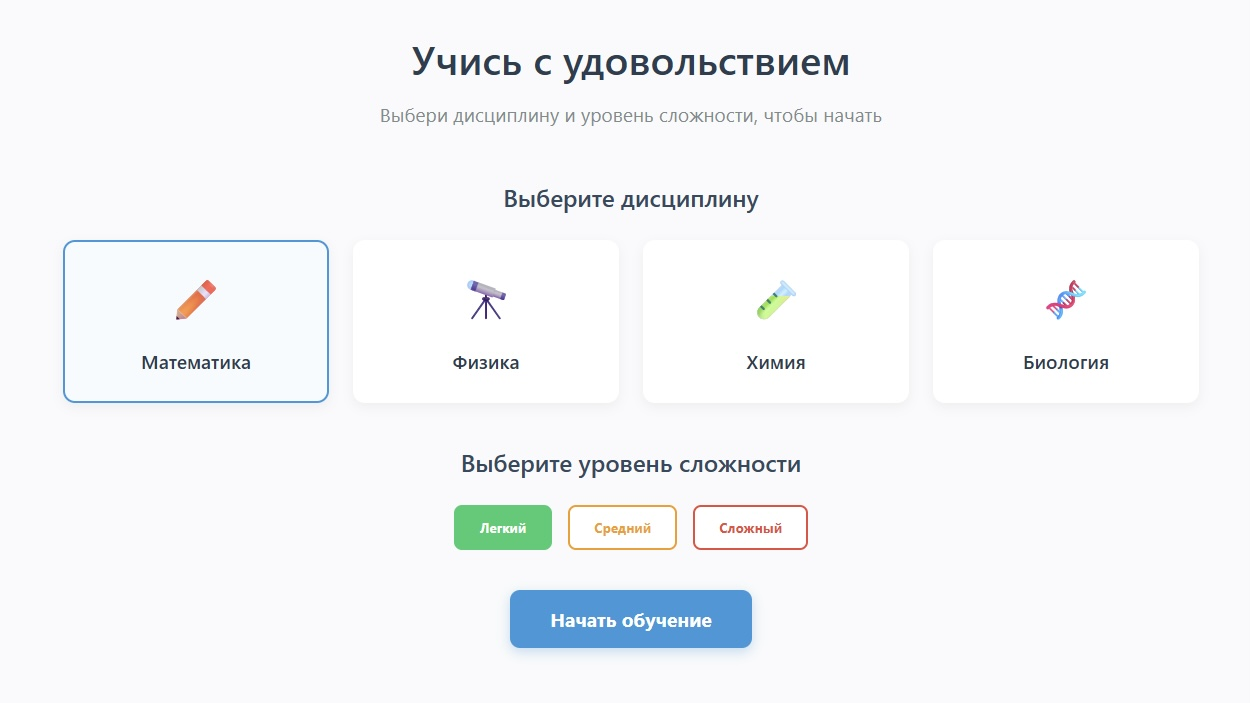
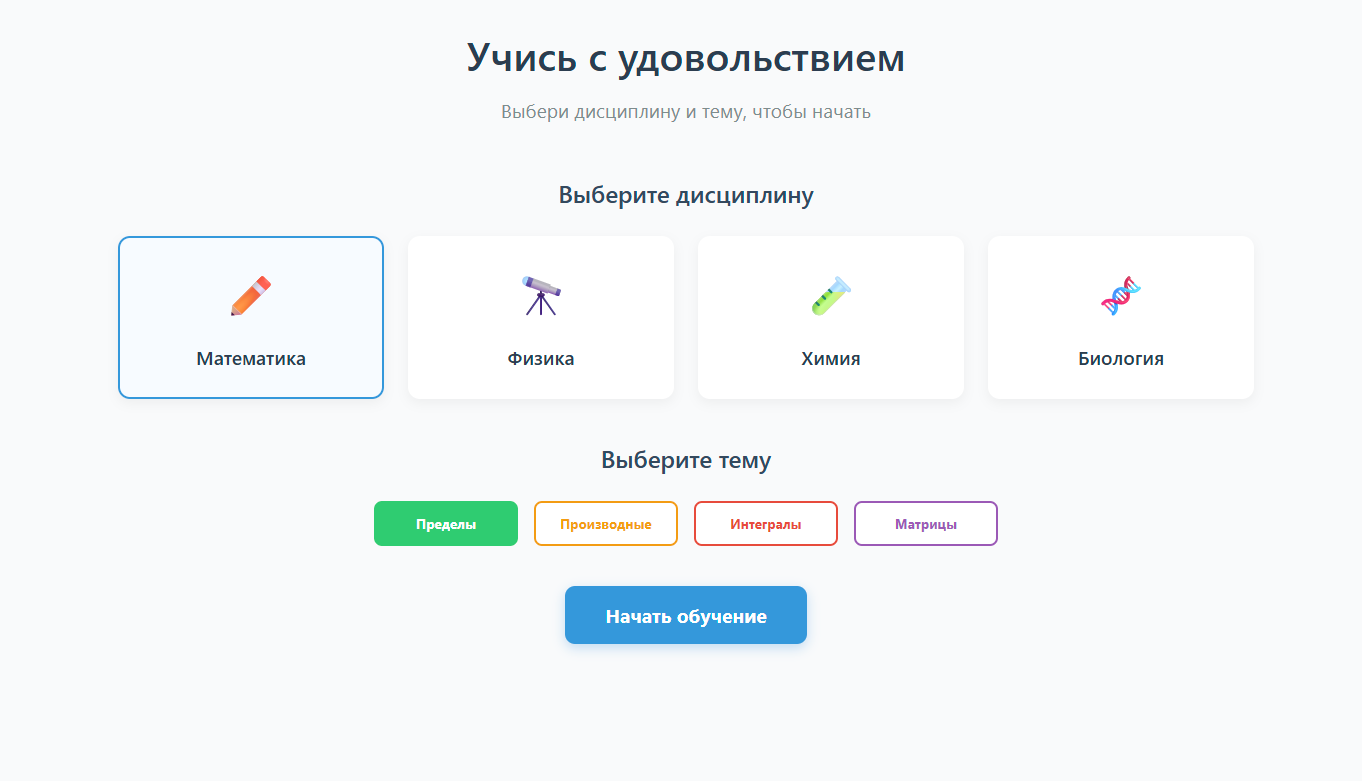
Обновлен README.md Обновлены скриншоты главной и страницы уравнений.

diff --git a/README.md b/README.md
@@ -7,7 +7,7 @@
 </p>
 
 <p align="center">
-  Интерактивная образовательная платформа для изучения различных дисциплин с адаптивным уровнем сложности.
+  Интерактивная образовательная платформа для изучения различных дисциплин с разными темами и генерациями коэфицентов для уравнений.
 </p>
 
 ## 🌟 Возможности
@@ -37,6 +37,8 @@
 - Vite
 - Vue Router
 - CSS (с использованием переменных и flexbox/grid)
+- KaTeX (для отображения математических формул)
+- Netlify (хостинг и CI/CD)
 
 ## 💻 Установка и запуск
 
@@ -55,11 +57,14 @@ npm run dev
 npm run build
 ```
 
-## 🛣 Дорожная карта
+## 🔧 Особенности реализации
 
-- [x] Главная страница с выбором дисциплин
-- [x] Страница с уравнениями по математике
-- [ ] Добавление других дисциплин
-- [ ] Система прогресса и достижений
-- [ ] Личный кабинет пользователя
-- [ ] Мобильная версия приложения
+- Динамическая генерация коэффициентов в примерах
+- Интеграция с KaTeX для отображения математических формул
+- SPA с настроенной маршрутизацией
+- Оптимизированный деплой на Netlify
+- Адаптивный дизайн для всех устройств
+
+```
+
+```
